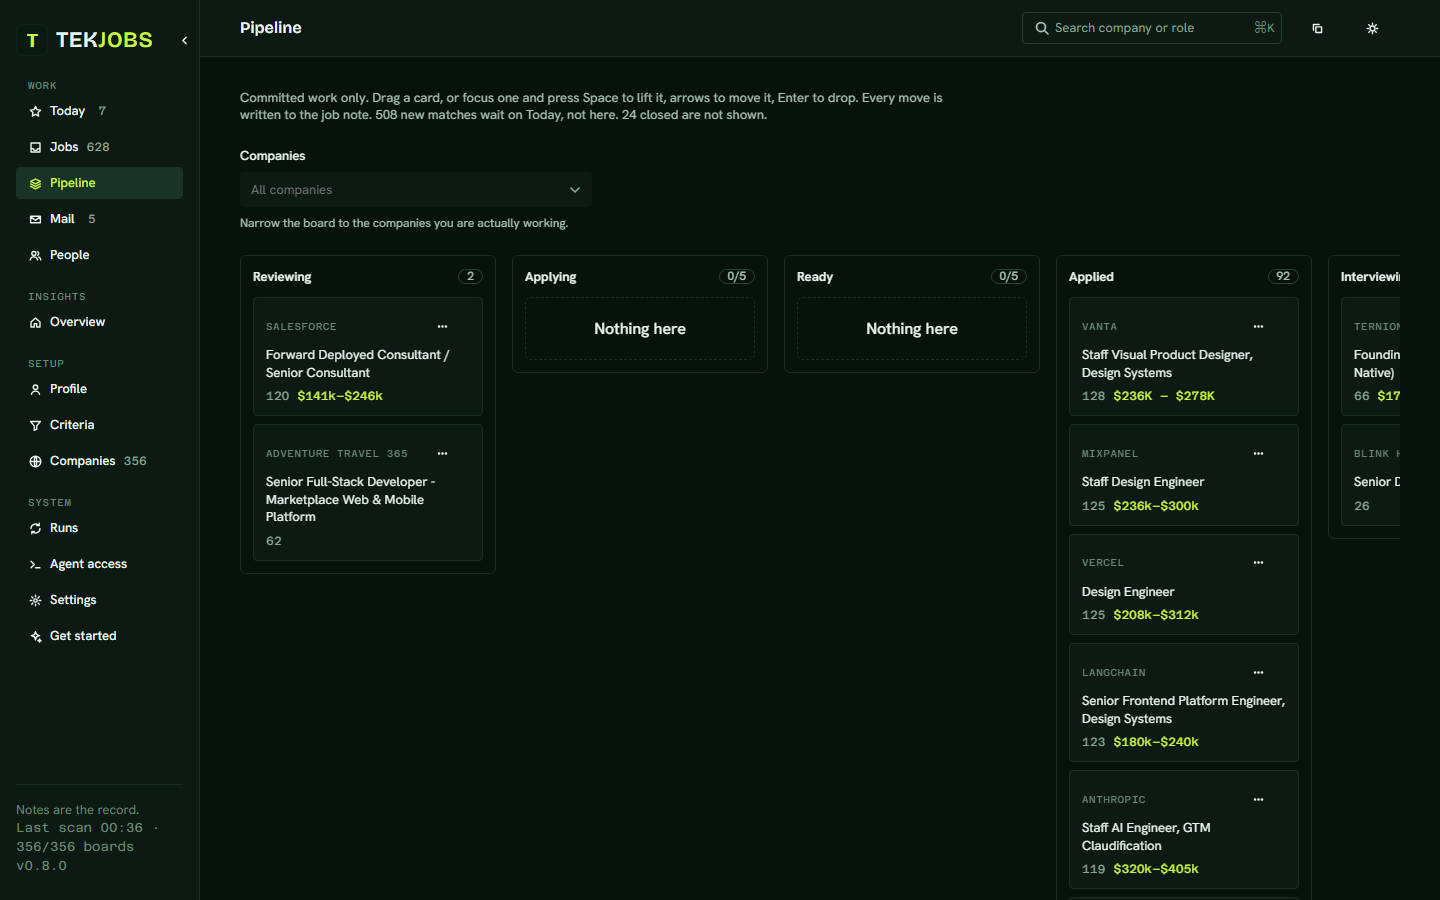
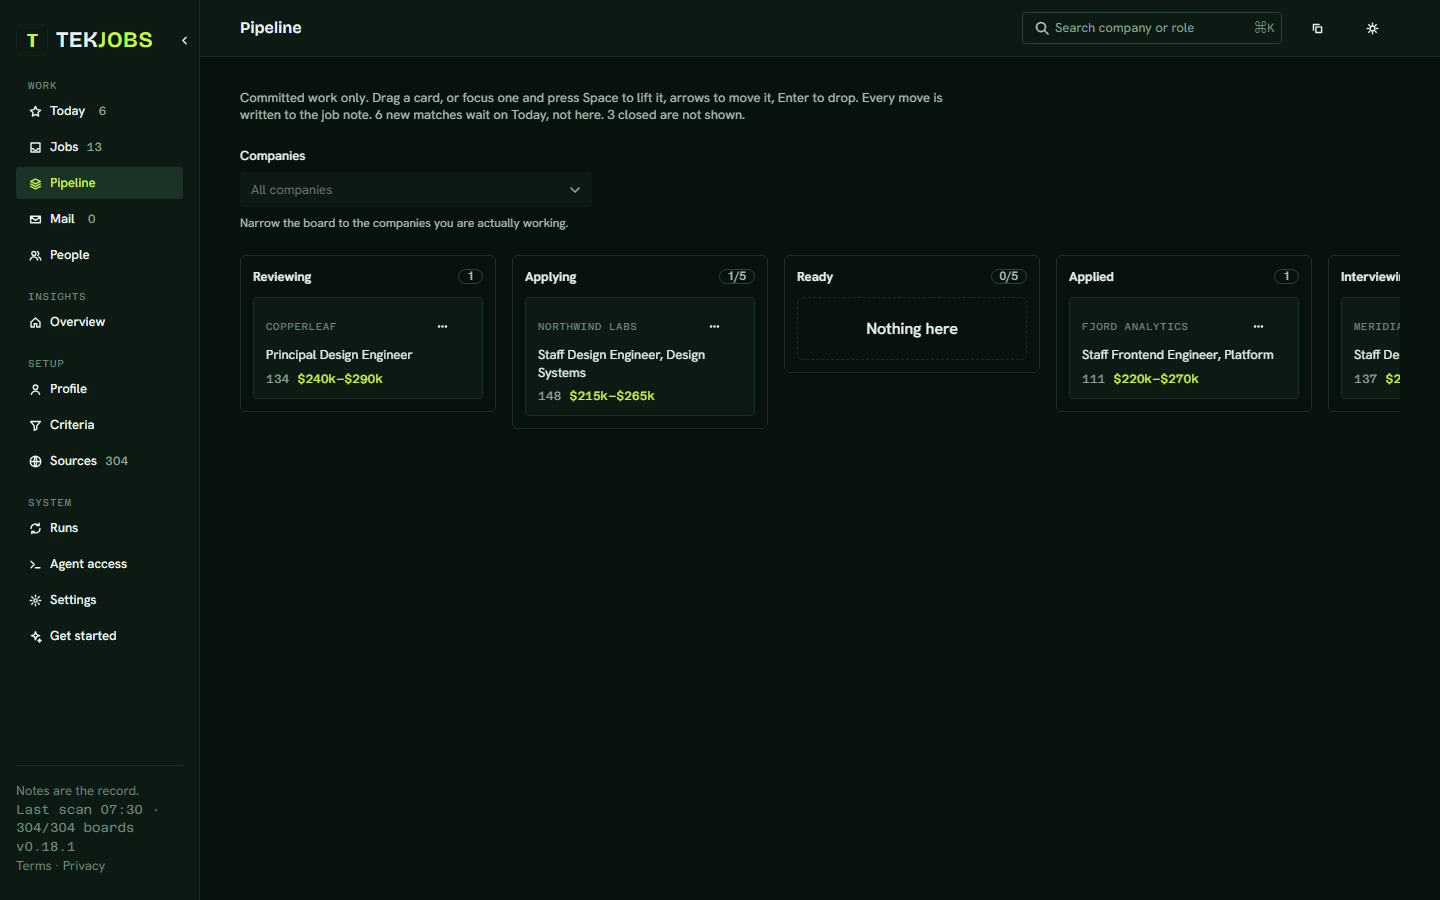
chore(site): screenshots from the sample vault
The landing's Today, Jobs and Pipeline images came from one real
search. They are now Jordan Example's, from samples/vault, at the same
1440x900, with Jobs showing the master-detail view and its caption
saying so.

diff --git a/site/src/content.ts b/site/src/content.ts
@@ -93,6 +93,6 @@ npm run dev         # the app on http://localhost:5173`;
 /** Screens on the landing, captured from a running vault. */
 export const SCREENS = [
   { src: "/screens/today.png", alt: "Today: the decision queue, in-flight applications, and what has gone quiet", caption: "Today" },
-  { src: "/screens/jobs.png", alt: "Jobs: filters as chips, saved views, the matches table", caption: "Jobs" },
+  { src: "/screens/jobs.png", alt: "Jobs: the match list beside the open note, with every reason it scored and the points each one earned", caption: "Jobs" },
   { src: "/screens/pipeline.png", alt: "Pipeline: committed work as columns from reviewing to offer", caption: "Pipeline" },
 ];
